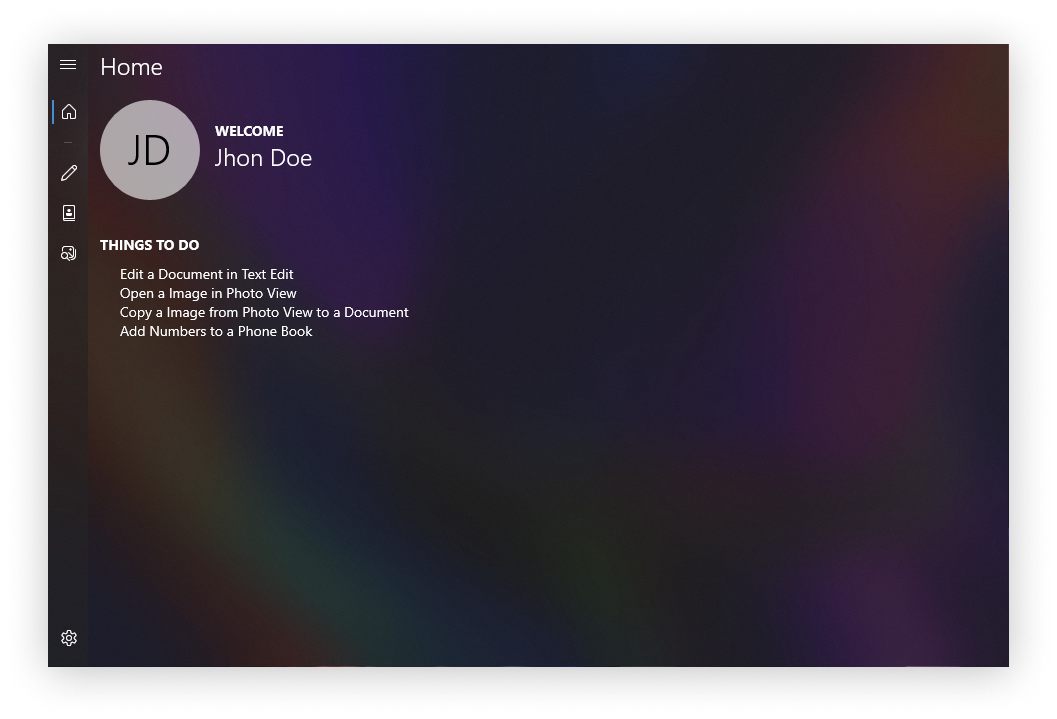
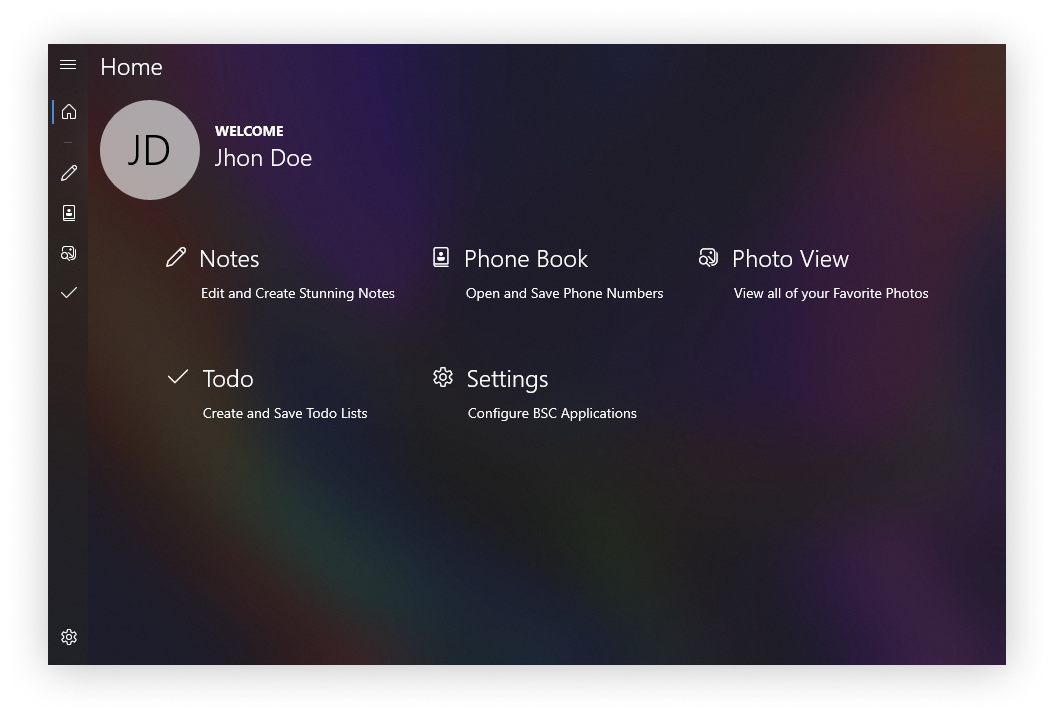
BSC Applications 0.1.1

diff --git a/docs/BSC-Applications.html b/docs/BSC-Applications.html
@@ -25,7 +25,7 @@
     <main style="padding-top: 50px;">
         <div class="header" style="padding-bottom: 30px;">
             <h1>BSC Applications Docs</h1>
-            <a href="../app/BSC-Applications.html">0.1.0</a>
+            <a href="../app/BSC-Applications.html">0.1.1</a>
         </div>
 
         <div id="install" class="bevel center doc">
@@ -37,12 +37,28 @@
                 <li>Open the "BSC Applications" folder.</li>
                 <li>Right Click "Add-AddDevPackage".</li>
                 <li>Click "Run With Powershell"(If there is an Error retry this step).</li>
-                <li>If it promps you with anything enter "Y" and click Enter.</li>
                 <li>Click "BSC Applications.appxbundle".</li>
                 <li>Click "Install".</li>
             </ol>
 
             <i>If there was any issues doing this <a href="mailto:jaredgholderrallo@gmail.com">email us</a> or <a href="https://github.com/BitSoftwareCo/BSC-Applications/issues/new" target="_blank">submit an issue</a>.</i>
+        </div>
+        
+        <div id="update" class="bevel center doc">
+            <h1>Update</h1>
+
+            <p>0.1.1+</p>
+            <ol>
+                <li>Go to Settings</li>
+                <li>Click "Check For Updates"</li>
+                <li>Follow the <a href="#install">install</a> guide.</li>
+            </ol>
+
+            <p>Before 0.1.1</p>
+            <ol>
+                <li><a href="../app/BSC-Applications.html">Download</a> BSC Applications</li>
+                <li>Follow the <a href="#install">install</a> guide.</li>
+            </ol>
         </div>
 
         <div id="text-edit" class="bevel center doc">
@@ -62,32 +78,6 @@
                 <li><strong>Bold</strong> - Bring up the formatting menu and click "<strong>B</strong>".</li>
                 <li><i>Italic</i> - Bring up the formatting menu and click "<i>I</i>".</li>
                 <li><u>Underline</u> - Bring up the formatting menu and click "<u>U</u>".</li>
-            </ul>
-        </div>
-
-        <div id="phone-book" class="bevel center doc">
-            <h1>Phone Book</h1>
-            
-            <p>Add a New Number</p>
-            <ol>
-                <li>Enter a name and number</li>
-                <li>Click "Add"</li>
-            </ol>
-
-            <p>Save and Open</p>
-            <ul>
-                <li>To save a Phone Book click "Save"</li>
-                <li>To open a Phone Book click "Open"</li>
-            </ul>
-        </div>
-
-        <div id="photo-view" class="bevel center doc">
-            <h1>Photo View</h1>
-
-            <p>Open and Copy</p>
-            <ul>
-                <li>To open a photo click "Open"</li>
-                <li>To copy a image to your clipbord click "Copy"</li>
             </ul>
         </div>
     </main>

diff --git a/app/BSC-Applications.html b/app/BSC-Applications.html
@@ -22,18 +22,19 @@
             <h3>BSC Applications</h3>
 
             <p style="padding-bottom: 30px;">
-                <a href="https://github.com/BitSoftwareCo/BSC-Applications/releases/download/0.1.0/BSC.Applications.zip">Download</a>
+                <a href="https://github.com/BitSoftwareCo/BSC-Applications/releases/download/0.1.1/BSC.Applications.zip">Download</a>
                 |
-                <a href="https://github.com/BitSoftwareCo/BSC-Applications/archive/refs/tags/0.1.0.zip">Download Source Code</a>
+                <a href="https://github.com/BitSoftwareCo/BSC-Applications/archive/refs/tags/0.1.1.zip">Download Source Code</a>
                 |
                 <a href="../docs/BSC-Applications.html#install">How To Install</a>
             </p>
         </div>
 
         <img src="res/BSC-Applications/Home.png" alt="Home" class="screenshot center">
-        <img src="res/BSC-Applications/Text Edit.png" alt="Text Edit" class="screenshot center">
+        <img src="res/BSC-Applications/Text Edit.png" alt="Notes" class="screenshot center">
         <img src="res/BSC-Applications/Phone Book.png" alt="Phone Book" class="screenshot center">
         <img src="res/BSC-Applications/Photo View.png" alt="Photo View" class="screenshot center">
+        <img src="res/BSC-Applications/Todo.png" alt="Todo" class="screenshot center">
 
         <div class="bevel center doc">
             <h1>Feedback or Ideas</h1>

diff --git a/style.css b/style.css
@@ -1,4 +1,4 @@
-@import url('https://fonts.googleapis.com/css2?family=Inter:wght@300&display=swap');
+@import url("https://use.typekit.net/mos2klc.css");
 
 :root {
     --background-1: #171A1D;
@@ -19,8 +19,10 @@ html {
 body {
     background: var(--background-1);
 
-    font-family: 'Inter', sans-serif;
-    line-height: 20px;
+    font-family: niveau-grotesk, sans-serif;
+    font-style: normal;
+    font-weight: 200;
+    line-height: 25px;
     color: var(--main-1);
 
     margin: 25px;
